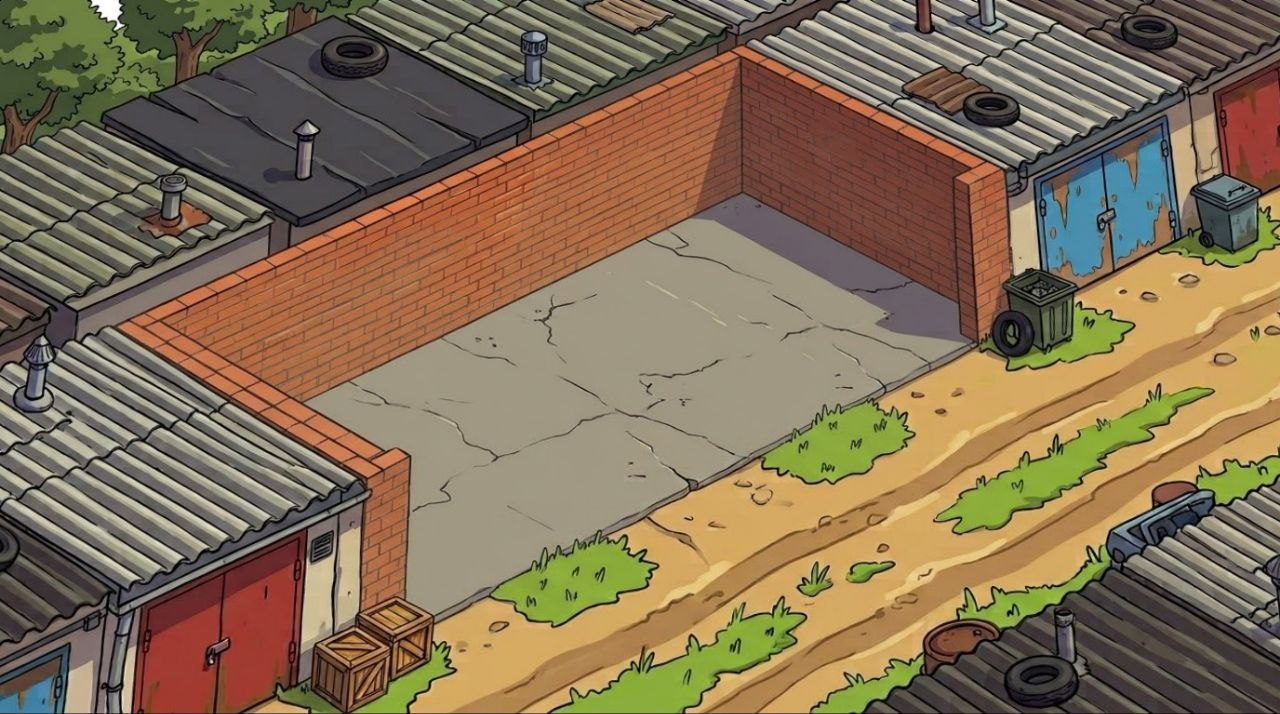
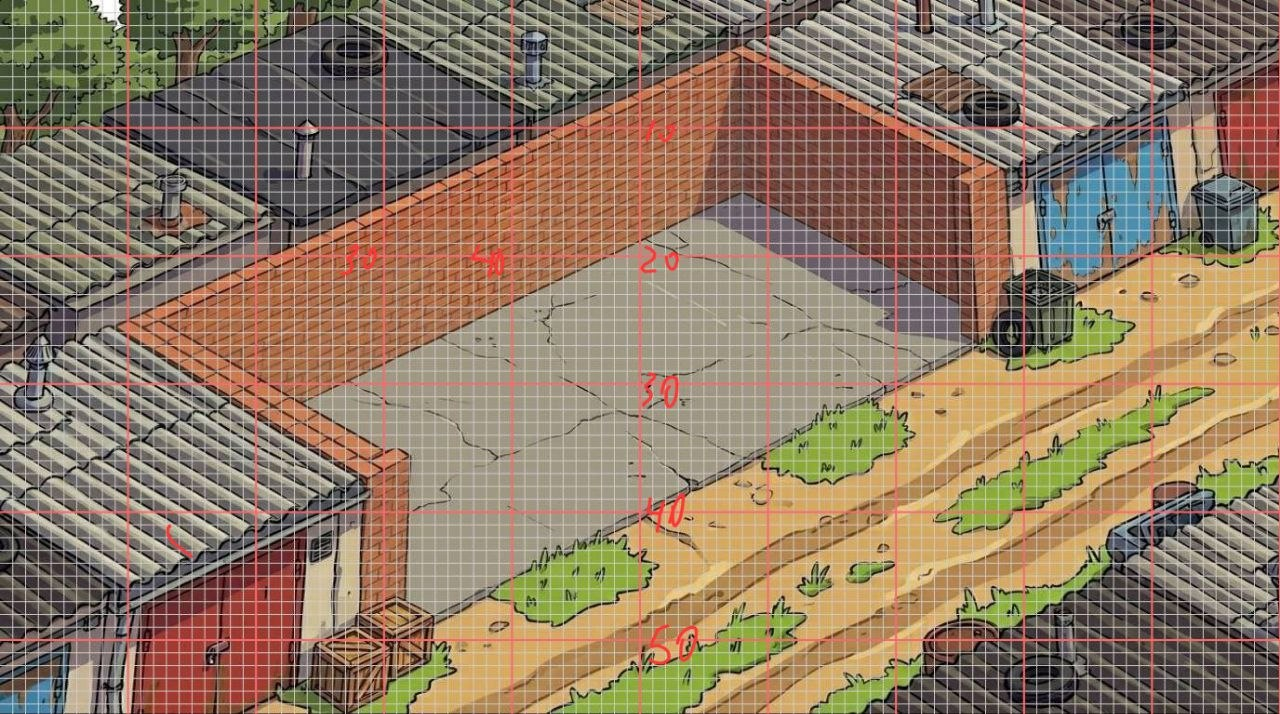
Swap yard background to the grid reference for layout tuning.

Changed region(s): [[0.0, 0.0, 1.0, 1.0]]

diff --git a/02-sklad/game.js b/02-sklad/game.js
@@ -1087,8 +1087,9 @@ function palWood(name) {
 }
 
 const EMPTY_PAL = "art/pal-empty.png?v=124";
+const YARD_PIC = "art/yard.jpg?v=129";
 const ART_URLS = [
-  "art/yard.jpg",
+  YARD_PIC,
   EMPTY_PAL,
   "art/pack.png",
   "art/pal-water.png",
@@ -1523,7 +1524,7 @@ function syncYardPan() {
     const img = new Image();
     state.yardImg = img;
     img.onload = () => fit(img.naturalWidth || 1600, img.naturalHeight || 900);
-    img.src = "art/yard.jpg";
+    img.src = YARD_PIC;
   } else if (state.yardImg.naturalWidth) {
     fit(state.yardImg.naturalWidth, state.yardImg.naturalHeight);
   }
@@ -2061,7 +2062,7 @@ function applyInside() {
   document.body.classList.toggle("in-depot", progress.room === "depot");
   const pic = document.getElementById("inside-pic");
   if (!pic) return;
-  pic.style.backgroundImage = "url(\"art/yard.jpg\")";
+  pic.style.backgroundImage = "url(\"" + YARD_PIC + "\")";
 }
 
 function cartCountSku(id) {

diff --git a/02-sklad/index.html b/02-sklad/index.html
@@ -8,7 +8,7 @@
     <meta name="apple-mobile-web-app-capable" content="yes" />
     <link rel="manifest" href="manifest.json" />
     <link rel="icon" href="../icon.svg" type="image/svg+xml" />
-    <link rel="stylesheet" href="style.css?v=128" />
+    <link rel="stylesheet" href="style.css?v=129" />
   </head>
   <body>
     <div class="scene" aria-hidden="true">
@@ -214,6 +214,6 @@
       </div>
     </div>
 
-    <script src="game.js?v=128"></script>
+    <script src="game.js?v=129"></script>
   </body>
 </html>

diff --git a/02-sklad/style.css b/02-sklad/style.css
@@ -4267,7 +4267,7 @@ body.iso-yard .inside {
 
 body.iso-yard .inside-pic {
   background:
-    url("art/yard.jpg") center center / 100% 100% no-repeat,
+    url("art/yard.jpg?v=129") center center / 100% 100% no-repeat,
     #c4b48c;
 }
 
